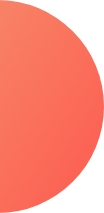
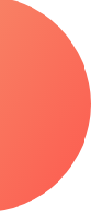
my portfolio completed

diff --git a/index.html b/index.html
@@ -8,16 +8,44 @@
     <link rel="stylesheet" href="style.css">
 </head>
 <body>
-    <section>
+    <section class="top-banner">
         <div class="half-width">
             <h1>Welcome to </h1>
-            <h1> <span class="naeem">Naeem</span> Website</h1>
+            <h1> <span class="orange-highlight">Naeem's</span> Website</h1>
             <h3>World-class professional web developer</h3>
             <p>Hello! I am an outstanding Web Developer to be responsible for the coding, innovative design and layout of our website. Web developer responsibilities include building your website from concept all the way to completion from the bottom up, fashioning everything from the home page to site layout and function. </p>
+            <a class="link-button" href="https://resources.workable.com/web-developer-job-description" target="_blank">HIRE ME</a>
         </div>
         <div class="half-width">
             <img src="images/naeem01.png" alt="">
         </div>
     </section>
+    <section class="dream-area">
+        <div class="half-width">
+            <img src="images/naeem02.png" alt="">
+        </div>
+        <div class="half-width">
+            <h2>Dream Big </h2>
+            <h3>Become a web developer</h3>
+            <p>I have already learned the basic HTML and CSS. I can build any simple website. I can even teach my grandma how to make simple website. My goal is to build 5 simple website and learn advance topics. </p>
+            <a class="link-button" href="https://resources.workable.com/web-developer-job-description" target="_blank">DOWNLOAD RESUME</a>
+        </div>
+    </section>
+    <section class="experience-area">
+        <h2>Experiences</h2>
+        <div id="full-stack" class="half-width single-experience">
+            <h2>Full stack Web Developer</h2>
+            <h3 class="orange-highlight">2021 - Present | Pro level Web Developer</h3>
+            <P>I am the master of HTML, CSS and Javascript. I know everything needed to make a website function, efficient. I didn't stop with the web. I went beyond with most popular Javascript framework callde Vuo.JS. I even know the deployment, server adn security. I will give you 100% web solution.</P>
+        </div>
+        <div id="baby-web" class="half-width single-experience">
+            <h2>Baby Web Developer</h2>
+            <h3 class="orange-highlight">2020 - 2021 | Programming Hero Learner</h3>
+            <p>They didn't offer me a job but I made myself as a remove web developer. I made their website and showed it to them. They liked it and uploaded the content. It was fun working at Programming Hero.</p>
+        </div>
+    </section>
+    <footer>
+        <p>@Naeem 2020, All rights reserved !</p>
+    </footer>
 </body>
 </html>

diff --git a/style.css b/style.css
@@ -1,10 +1,17 @@
 body{
+    margin: 0;
     font-family: 'Roboto', sans-serif;
 }
 h1{
     font-size: 50px;
 }
-.naeem{
+h2{
+    font-size: 40px;
+}
+p{
+    color: dimgray;
+}
+.orange-highlight{
     color: orange;
 }
 .half-width{
@@ -15,4 +22,53 @@ h1{
 }
 .half-width img{
     width: 100%;
+}
+.top-banner{
+    background-image: url("images/top-banner.png");
+    background-repeat: no-repeat;
+}
+section{
+    height: 500px;
+    padding-bottom: 100px;
+}
+.link-button{
+    text-decoration: none;
+    background-image: linear-gradient(45deg, lightSalmon, tomato);
+    padding: 10px 20px;
+    border-radius: 10px;
+    color: white;
+    font-weight: bold;
+
+}
+.dream-area{
+    background-image: url("images/dream-bg.png");
+    background-repeat: no-repeat;
+    background-position: right;
+}
+.single-experience{
+    box-shadow: 10px 10px 40px gray;
+    border-radius: 10px;
+    height: 60%;
+    background-color: white;
+}
+.experience-area{
+    background-image: url("images/exp-bg.png");
+    background-repeat: no-repeat;
+    background-position: left;
+    background-position-y: 30%;
+   
+}
+#full-stack{
+    border-left: 7px solid;
+    border-image: linear-gradient(lightSalmon, tomato);
+    border-image-slice: 1;
+}
+#baby-web{
+    border-left: 7px solid;
+    border-image: linear-gradient(blue, tomato);
+    border-image-slice: 1;
+}
+footer p{
+    text-align: center;
+    font-size: 13px;
 }
